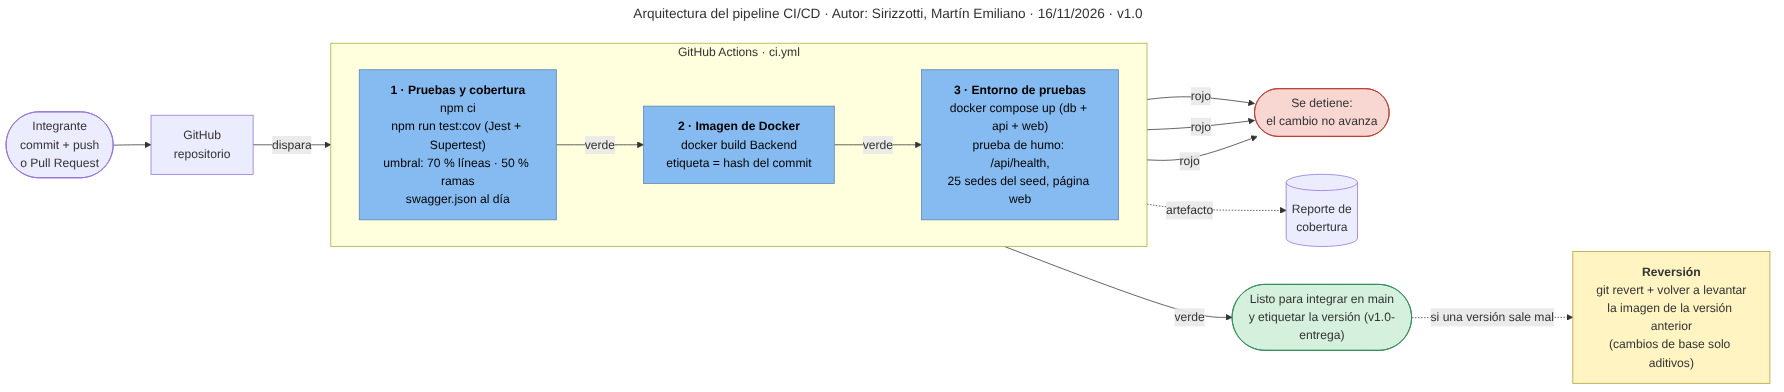
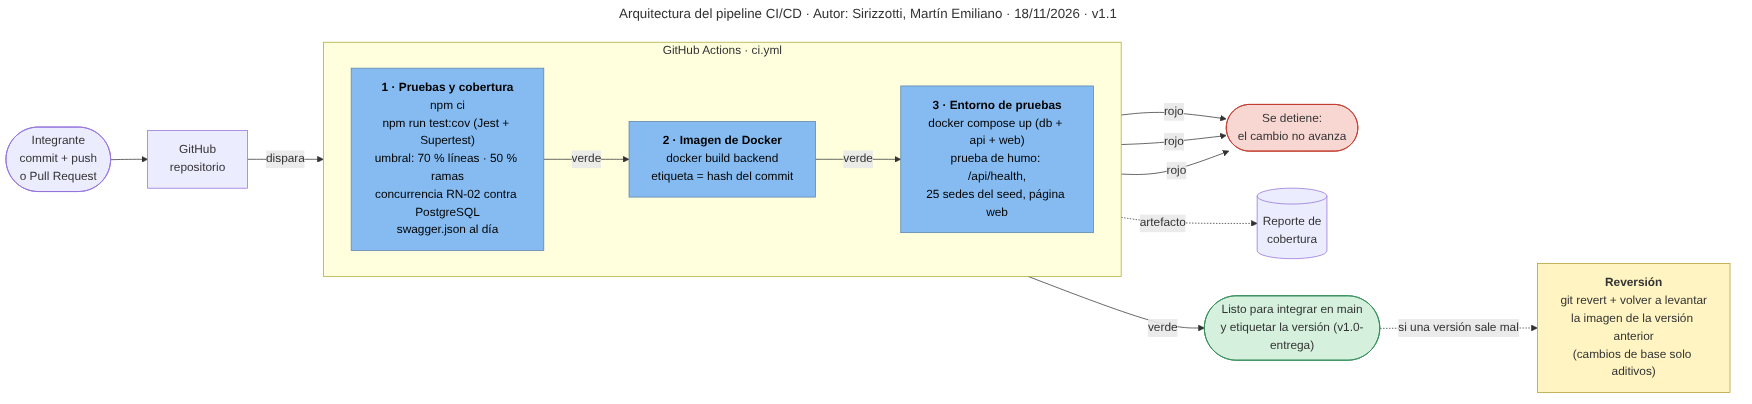
test: concurrencia de RN-02 contra PostgreSQL y evidencia de los RNF
- backend/test/concurrencia: seis pedidos simultáneos del mismo turno contra
  la API conectada a PostgreSQL; uno reserva y cinco reciben 409. Con el
  índice único borrado la prueba falla. npm run test:concurrencia; el
  pipeline la corre con una base de servicio (ADR-017).
- docs/rnf: evidencia de RNF-01 a RNF-04 medida el 18/11 (prueba con
  navegador sin servidor, pago sin datos de tarjeta en la base, consulta de
  disponibilidad con 349.377 reservas, alta de sede sin reiniciar) y el
  script que la reproduce con docker compose.
- Manual técnico y diagrama del pipeline actualizados.

Claude-Session: https://claude.ai/code/session_01PRMnLmVZA6Z64uKRk9UVc8

diff --git a/backend/test/concurrencia/reserva-cancha.concurrencia.test.js b/backend/test/concurrencia/reserva-cancha.concurrencia.test.js
@@ -1,0 +1,59 @@
+'use strict';
+
+/**
+ * RN-02 · Concurrencia en la reserva de canchas, contra PostgreSQL real (ADR-004).
+ *
+ * Las pruebas unitarias y de integración usan el repositorio en memoria. Esta
+ * prueba usa la API completa conectada a una base real: varias personas piden
+ * el mismo turno de la misma cancha al mismo tiempo y solo una puede quedárselo.
+ * Lo garantiza el índice único parcial uq_reserva_cancha_turno_activo; los
+ * demás intentos reciben 409.
+ *
+ * Necesita una base con db/01-esquema.sql y db/02-seed.sql cargados:
+ *   DATABASE_URL=postgres://... DB_SSL=false npm run test:concurrencia
+ * Sin DATABASE_URL la prueba se saltea (npm test no la corre).
+ */
+const request = require('supertest');
+
+const hayBase = Boolean(process.env.DATABASE_URL);
+const describeConBase = hayBase ? describe : describe.skip;
+
+describeConBase('RN-02 contra PostgreSQL: el mismo turno pedido a la vez', () => {
+  let app;
+  let sequelize;
+
+  beforeAll(() => {
+    app = require('../../src/app');
+    ({ sequelize } = require('../../src/core/db'));
+  });
+
+  afterAll(async () => {
+    if (sequelize) await sequelize.close();
+  });
+
+  test('de varios pedidos simultáneos, uno reserva y el resto recibe 409', async () => {
+    const sedes = (await request(app).get('/api/v1/sedes')).body;
+    const canchas = (await request(app).get(`/api/v1/canchas/sede/${sedes[0].id}`)).body;
+    const cancha = canchas.find((c) => c.estado === 'DISPONIBLE');
+    const usuarios = (await request(app).get('/api/v1/usuarios')).body;
+    expect(usuarios.length).toBeGreaterThanOrEqual(2);
+
+    // Un turno a futuro distinto en cada corrida, para poder repetir la prueba.
+    const turno = new Date();
+    turno.setDate(turno.getDate() + 30 + Math.floor(Math.random() * 300));
+    turno.setHours(10 + Math.floor(Math.random() * 12), 0, 0, 0);
+
+    const pedidos = usuarios.slice(0, 6).map((u) => request(app)
+      .post('/api/v1/canchas/reservas')
+      .send({ canchaId: cancha.id, usuarioId: u.id, fechaHoraInicio: turno.toISOString() }));
+    const respuestas = await Promise.all(pedidos);
+
+    const estados = respuestas.map((r) => r.status).sort();
+    const ganadora = respuestas.find((r) => r.status === 201);
+    expect(estados.filter((s) => s === 201)).toHaveLength(1);
+    expect(estados.filter((s) => s === 409)).toHaveLength(respuestas.length - 1);
+
+    // Se libera el turno para no dejar datos de la prueba.
+    await request(app).patch(`/api/v1/canchas/reservas/${ganadora.body.id}/cancelar`);
+  });
+});

diff --git a/docs/manuales/manual-tecnico.md b/docs/manuales/manual-tecnico.md
@@ -178,7 +178,7 @@ Si dos pedidos intentan el mismo turno, PostgreSQL acepta uno y rechaza el otro 
 | Validación de la firma en el servidor sin consultar la base (respaldo si el navegador no tiene Ed25519) | `POST /api/v1/acceso/validar-offline` | Implementado |
 | Validación local en el navegador del terminal: guarda la clave pública (se renueva cada 24 hs) y verifica la firma con WebCrypto Ed25519, sin red | `frontend/src/services/terminal-offline.js` | Implementado |
 | Cola local de ingresos (`localStorage`) que se envía al volver la conexión (evento `online`, cada 15 s o «Sincronizar ahora») | `frontend/src/services/terminal-offline.js` · `recepcion.js` | Implementado |
-| `POST /api/v1/acceso/sincronizar`: vuelve a verificar cada firma con la hora del ingreso, descarta reenvíos (persona + sede + hora) y resuelve RN-01 cerrando el registro abierto a la hora del ingreso nuevo | `acceso.service.js` → `sincronizarIngresos()` (ADR-007) | Implementado, con 12 pruebas unitarias y 2 de integración |
+| `POST /api/v1/acceso/sincronizar`: vuelve a verificar cada firma con la hora del ingreso, descarta reenvíos (persona + sede + hora) y resuelve RN-01 cerrando el registro abierto a la hora del ingreso nuevo | `acceso.service.js` → `sincronizarIngresos()` (ADR-007) | Implementado, con 11 pruebas unitarias y 2 de integración |
 
 Por qué clave pública y no HMAC (ADR-003): para verificar un HMAC el terminal necesitaría el secreto, y quien lo extrajera podría fabricar QR. Con Ed25519, el terminal solo tiene la clave pública, que sirve para verificar pero no para firmar.
 
@@ -249,15 +249,17 @@ cd backend
 npm test                  # 113 pruebas
 npm test -- precios       # solo los archivos que contienen "precios"
 npm run test:cov          # con reporte de cobertura
+npm run test:concurrencia # RN-02 contra PostgreSQL real (necesita DATABASE_URL)
 ```
 
 | Carpeta | Qué prueba |
 |---|---|
 | `test/unit/` (83 pruebas) | Reglas de cada servicio y patrón: estrategias de precio, RN-02 con repositorio en memoria, membresías (incluidas pruebas de caracterización), Observer, los cinco tipos de QR. |
 | `test/integracion/` (30 pruebas) | La API por HTTP con Supertest: router, validadores, servicio y manejador de errores reales, con repositorio en memoria. Incluye una prueba de humo de la app completa y de `/api/v1`. |
+| `test/concurrencia/` (1 prueba) | RN-02 contra PostgreSQL real: seis pedidos simultáneos del mismo turno, uno reserva y el resto recibe 409. Se saltea si no hay `DATABASE_URL`; el pipeline la corre con una base de servicio. |
 | `test/dobles/fitzone.js` | Dobles compartidos: *fakes* (repositorios en memoria), *stubs* (servicio de usuarios con datos fijos) y *mocks* (`jest.fn()`). |
 
-Ninguna prueba usa la base de datos real (ADR-008).
+Las pruebas unitarias y de integración no usan la base de datos real (ADR-008); la de concurrencia sí, porque lo que verifica es el índice único de la base.
 
 **Cómo leer la cobertura.** `npm run test:cov` imprime una tabla por archivo y un resumen; el detalle navegable queda en `coverage/lcov-report/index.html`. Las columnas son:
 

diff --git a/docs/rnf/RNF-01-disponibilidad.md b/docs/rnf/RNF-01-disponibilidad.md
@@ -1,0 +1,43 @@
+# RNF-01 · Disponibilidad del control de acceso
+
+> El control de acceso (tornos) debe funcionar aunque falle la conexión principal a internet.
+
+## Cómo se cumple
+
+1. El socio baja desde **Mi acceso → Sin conexión** un QR firmado con Ed25519 que vale 24 horas (ADR-003, `backend/src/acceso/qr-offline.js`).
+2. El terminal de Recepción guarda en el navegador la clave pública, la lista de sedes y una cola de ingresos (`frontend/src/services/terminal-offline.js`).
+3. Sin servidor, verifica la firma ahí mismo con WebCrypto, deja pasar y anota el ingreso con su hora.
+4. Al volver la conexión, manda la cola a `POST /api/v1/acceso/sincronizar`. El servidor vuelve a verificar cada firma con la hora del ingreso, descarta reenvíos y resuelve RN-01 (ADR-007).
+
+## Pruebas automáticas
+
+| Prueba | Casos | Qué verifica |
+|---|---|---|
+| `backend/test/unit/qr-offline.test.js` | 8 | La firma se valida solo con la clave pública, sin base; un QR adulterado o vencido se rechaza |
+| `backend/test/unit/sincronizacion-terminal.test.js` | 11 | La sincronización: hora original, reenvíos sin duplicar, firmas adulteradas, QR vencido al ingresar, RN-01 y aforo |
+| `backend/test/integracion/qr.api.test.js` | 6 | Emisión, validación, clave pública y `POST /acceso/sincronizar` por HTTP |
+
+## Prueba con el navegador (18/11/2026)
+
+Recepción abierta como Carla (recepcionista), con la API cortada a mitad de la prueba:
+
+| Paso | Resultado |
+|---|---|
+| Con conexión | Panel Terminal «En línea», clave pública guardada |
+| Se corta la API; se lee el QR sin conexión de Lucía | «Puede pasar», validado en el terminal; 1 ingreso sin sincronizar |
+| Se lee un QR con la firma alterada | «No puede pasar: la firma no es válida» |
+| Se recarga la página sin API | Sigue andando, con la sede y la cola guardadas; en la base todavía hay 0 ingresos |
+| Vuelve la API | Se sincroniza solo: 1 aceptado; en la base queda el ingreso con la hora en que pasó |
+| Con conexión, el mismo QR otra vez | «No puede pasar: RN-01, ya figura adentro» |
+
+![Sin servidor: el terminal valida y anota el ingreso](img/rnf01-1-sin-servidor.png)
+
+![Página recargada sin servidor: la cola sigue ahí](img/rnf01-2-recarga-sin-servidor.png)
+
+![Al volver la conexión: ingreso sincronizado](img/rnf01-3-sincronizado.png)
+
+Cómo repetirlo: manual de instalación y operación, sección 8.
+
+## Límites
+
+Sin conexión no se registran egresos y el aforo no se actualiza. El navegador del terminal necesita Ed25519 en WebCrypto (Chrome o Edge 137, Firefox 129, Safari 17) y la página tiene que abrirse desde `localhost` o `https`.

diff --git a/docs/adr/ADR-017-prueba-concurrencia-postgresql.md b/docs/adr/ADR-017-prueba-concurrencia-postgresql.md
@@ -1,0 +1,35 @@
+# ADR-017 — Prueba de concurrencia de RN-02 contra PostgreSQL real
+
+- **Estado:** Aceptado. Complementa ADR-008, no lo reemplaza.
+- **Fecha:** 2026-11-18
+- **Autor:** Sirizzotti, Martín Emiliano
+- **Sprint:** 6
+
+## Contexto
+
+ADR-008 decidió que las pruebas unitarias y de integración corran sin base de datos, con repositorios en memoria. Para RN-02 eso prueba la lógica (el segundo pedido del mismo turno recibe 409), pero no lo que realmente impide la sobreventa: el índice único parcial `uq_reserva_cancha_turno_activo` de ADR-004. Si alguien borra o cambia ese índice, las 113 pruebas siguen en verde. Los lineamientos piden además una carpeta de pruebas de concurrencia (`test/` con unitarias, integración y concurrencia).
+
+## Alternativas consideradas
+
+| Alternativa | A favor | En contra | Por qué se descartó |
+|---|---|---|---|
+| Dejarlo solo para la demo | No hay nada que mantener. | Nada lo verifica en cada cambio. | La regla más delicada del caso queda sin prueba automática. |
+| Pasar todas las pruebas a una base real | Máximo realismo. | Lentas y dependientes de una base en cada máquina. | Contradice ADR-008 sin necesidad. |
+| Base en memoria compatible (pg-mem) | No requiere servidor. | No reproduce bloqueos ni índices parciales de forma fiable. | Justo lo que hay que probar es el comportamiento real de PostgreSQL. |
+| **Una prueba aparte contra PostgreSQL, en el pipeline con una base de servicio** | Prueba el índice real; no cambia el resto de la suite. | Hace falta una base para correrla. | **Elegida.** |
+
+## Decisión
+
+Se agrega `backend/test/concurrencia/reserva-cancha.concurrencia.test.js`, que levanta la API completa contra la base indicada en `DATABASE_URL` y manda seis pedidos simultáneos del mismo turno de la misma cancha. Tiene que haber exactamente una reserva (201) y cinco rechazos (409). Se corre con `npm run test:concurrencia`; `npm test` no la incluye y, sin `DATABASE_URL`, se saltea. El pipeline la corre en la etapa 1 con un PostgreSQL 16 de servicio, cargado con el esquema y el seed.
+
+Se verificó que la prueba detecta el problema: con el índice borrado, los seis pedidos quedan confirmados y la prueba falla.
+
+## Consecuencias
+
+- **Positivas:** si se toca el índice de RN-02, el pipeline lo frena; la demo obligatoria de concurrencia tiene una prueba que la respalda.
+- **Negativas:** la etapa 1 del pipeline tarda unos segundos más; para correrla en local hace falta una base.
+- **Deuda asumida:** no hay pruebas de concurrencia para la reserva de clases (bloqueo de fila de RF-07).
+
+## Requisitos relacionados
+
+RN-02; ADR-004; ADR-008

diff --git a/docs/rnf/RNF-02-seguridad.md b/docs/rnf/RNF-02-seguridad.md
@@ -1,0 +1,47 @@
+# RNF-02 · Datos de tarjeta
+
+> Los datos de tarjeta de crédito no se almacenan localmente; solo se guarda el token de la pasarela.
+
+## Cómo se cumple
+
+La API recibe la tarjeta en `POST /api/v1/pagos` y se la pasa a la pasarela (simulada, `backend/src/pagos/pasarela-mock.js`). La pasarela devuelve un token y los últimos cuatro dígitos, y eso es lo único que se guarda (ADR-010). La tabla `pagos` no tiene columnas para el número, el titular, el vencimiento ni el código de seguridad:
+
+```
+ Column            | Type
+-------------------+--------------------------
+ id                | uuid
+ usuario_id        | uuid
+ reserva_cancha_id | uuid
+ membresia_id      | uuid
+ monto             | numeric(10,2)
+ estado            | character varying(20)
+ token_pasarela    | character varying(80)
+ ultimos4          | character varying(4)
+ motivo_rechazo    | character varying(120)
+ created_at        | timestamp with time zone
+ updated_at        | timestamp with time zone
+```
+
+## Medición (18/11/2026)
+
+Se pagó una reserva con la tarjeta `4111 1111 1111 1234`, titular `LUCIA FERNANDEZ`, vencimiento `12/29` y código `123`.
+
+Respuesta de la API:
+
+```json
+{ "estado": "APROBADO", "monto": "12750.00", "tokenPasarela": "tok_5e1e8373503dc91f30aed073", "ultimos4": "1234" }
+```
+
+Lo que quedó en la base:
+
+```
+  estado  |  monto   |        token_pasarela        | ultimos4
+----------+----------+------------------------------+----------
+ APROBADO | 12750.00 | tok_5e1e8373503dc91f30aed073 | 1234
+```
+
+Búsqueda del número completo y del titular en un volcado de **todos los datos** de la base (`pg_dump --data-only`): **0 apariciones**.
+
+## Límite
+
+Sin una prueba automática que lo verifique (hueco señalado en la matriz de trazabilidad). La pasarela es simulada y la tarjeta pasa por el backend en memoria antes de tokenizarse; con una pasarela real convendría tokenizar directamente en el navegador.

diff --git a/docs/rnf/RNF-03-rendimiento.md b/docs/rnf/RNF-03-rendimiento.md
@@ -1,0 +1,40 @@
+# RNF-03 · Rendimiento de la consulta de disponibilidad
+
+> La consulta de disponibilidad de canchas debe responder en pocos milisegundos (índices en base de datos).
+
+## Cómo se cumple
+
+`GET /api/v1/canchas/{id}/disponibilidad?fecha=AAAA-MM-DD` arma la grilla del día con una sola consulta: los turnos ocupados de esa cancha entre las 8 y las 23 (`turnosOcupados()` en `backend/src/canchas/repositorio/reservas.sequelize.js`). La resuelve el índice único parcial de RN-02, que ya está ordenado por cancha y hora (`backend/db/01-esquema.sql`):
+
+```sql
+CREATE UNIQUE INDEX uq_reserva_cancha_turno_activo
+  ON reservas_cancha (cancha_id, fecha_hora_inicio)
+  WHERE estado IN ('PENDIENTE_PAGO', 'CONFIRMADA');
+```
+
+## Medición (18/11/2026)
+
+Para que la medición tenga sentido se cargó **un año de turnos confirmados en las 64 canchas** del seed: 349.377 filas en `reservas_cancha`. Después se borraron.
+
+Plan de PostgreSQL para la consulta de un día:
+
+```
+Index Only Scan using uq_reserva_cancha_turno_activo on reservas_cancha
+  Index Cond: ((cancha_id = '…') AND (fecha_hora_inicio >= …) AND (fecha_hora_inicio <= …))
+  Heap Fetches: 0
+Execution Time: 0.121 ms
+```
+
+La misma consulta sin poder usar índices recorre toda la tabla (`Parallel Seq Scan`): **39,8 ms**, unas 330 veces más.
+
+Tiempo de respuesta de la API completa (HTTP, validación, consulta y armado de la grilla), 100 pedidos seguidos:
+
+| Promedio | Mediana | p95 | Máximo |
+|---|---|---|---|
+| 3,4 ms | 3,2 ms | 5,4 ms | 9,6 ms |
+
+Otros índices de la base para consultas frecuentes: `idx_registros_acceso_sede_fecha` (aforo y presentes), `idx_clases_sede_fecha` (clases por sede y día), `idx_reservas_cancha_usuario` y `idx_reservas_clase_usuario` (mis reservas).
+
+## Límite
+
+Medido en una máquina local, con un solo usuario a la vez. No hay prueba de carga con usuarios concurrentes.

diff --git a/docs/rnf/README.md b/docs/rnf/README.md
@@ -1,0 +1,18 @@
+# Evidencia de los requisitos no funcionales
+
+| RNF | Qué pide el enunciado | Cómo se cumple | Evidencia |
+|---|---|---|---|
+| RNF-01 · Disponibilidad | El control de acceso funciona aunque falle la conexión principal | El terminal de Recepción valida el QR sin conexión con la clave pública guardada y sincroniza al volver (ADR-003, ADR-007) | [RNF-01-disponibilidad.md](RNF-01-disponibilidad.md) |
+| RNF-02 · Seguridad | No se guardan datos de tarjeta; solo el token de la pasarela | La tabla `pagos` solo tiene `token_pasarela` y `ultimos4` (ADR-010) | [RNF-02-seguridad.md](RNF-02-seguridad.md) |
+| RNF-03 · Rendimiento | La consulta de disponibilidad responde en pocos milisegundos, con índices | Índice `(cancha_id, fecha_hora_inicio)` de las reservas activas (ADR-002, ADR-004) | [RNF-03-rendimiento.md](RNF-03-rendimiento.md) |
+| RNF-04 · Escalabilidad | Se agrega una sede sin detener el sistema | Las sedes son datos: alta por API o desde Gestión, sin reiniciar (ADR-001) | [RNF-04-escalabilidad.md](RNF-04-escalabilidad.md) |
+
+## Cómo se obtuvo
+
+Las mediciones son del 18/11/2026, sobre el sistema corriendo en un entorno local (Node.js 22, PostgreSQL 16) con los datos de prueba del seed. Se reproducen con el sistema levantado con `docker compose up --build`:
+
+```bash
+bash docs/rnf/medir-rnf.sh        # RNF-02, RNF-03 y RNF-04 (necesita curl y jq)
+```
+
+RNF-01 se verifica con las pruebas automáticas y con la demo del manual de instalación (sección 8). El script borra todo lo que crea.

diff --git a/docs/rnf/RNF-04-escalabilidad.md b/docs/rnf/RNF-04-escalabilidad.md
@@ -1,0 +1,23 @@
+# RNF-04 · Agregar una sede sin detener el sistema
+
+> La arquitectura permite agregar una nueva sede sin detener el sistema (configuración por base de datos).
+
+## Cómo se cumple
+
+Las sedes son filas de la tabla `sedes`, no configuración del código: ningún módulo tiene sedes fijas. Una sede nueva se da de alta con `POST /api/v1/sedes` o desde **Gestión → Sedes** en la aplicación web, y queda disponible en el momento para canchas, clases, acceso y aforo (ADR-001, monolito modular con datos centralizados). El seed carga 25 sedes.
+
+## Medición (18/11/2026), con la API corriendo
+
+| Paso | Resultado |
+|---|---|
+| Proceso de la API | PID 725 |
+| `GET /sedes` | 25 sedes |
+| `POST /sedes` («FitZone Prueba RNF-04», aforo 80) | 201, sede creada |
+| `GET /sedes` | 26 sedes |
+| `POST /canchas` en la sede nueva («Pádel 1») | 201, cancha `DISPONIBLE` |
+| `GET /acceso/aforo/{sede nueva}` | `{"actual":0,"maximo":80}` |
+| Proceso de la API | PID 725: el mismo, no se reinició |
+
+## Límite
+
+Una sola instancia de la API. ADR-001 deja como deuda extraer un módulo como servicio si su volumen lo justifica; no se hizo.

diff --git a/docs/adr/README.md b/docs/adr/README.md
@@ -29,6 +29,7 @@ Un ADR no se corrige: se supera. Si una decisión se revierte, el ADR original p
 | [ADR-014](ADR-014-repository-reservas-membresias.md) | Repository para reservas de cancha y membresías | Aceptado | Sirizzotti | RN-02, RF-02 |
 | [ADR-015](ADR-015-observer-lista-espera.md) | Observer para el aviso a la lista de espera | Aceptado | Sirizzotti | RF-07, RF-08 |
 | [ADR-016](ADR-016-codigos-qr.md) | Varios códigos QR, con firma HMAC y Ed25519 | Aceptado | Sirizzotti | RF-04, RF-14, RN-01 |
+| [ADR-017](ADR-017-prueba-concurrencia-postgresql.md) | Prueba de concurrencia de RN-02 contra PostgreSQL real | Aceptado | Sirizzotti | RN-02 |
 
 ## Numeración
 
